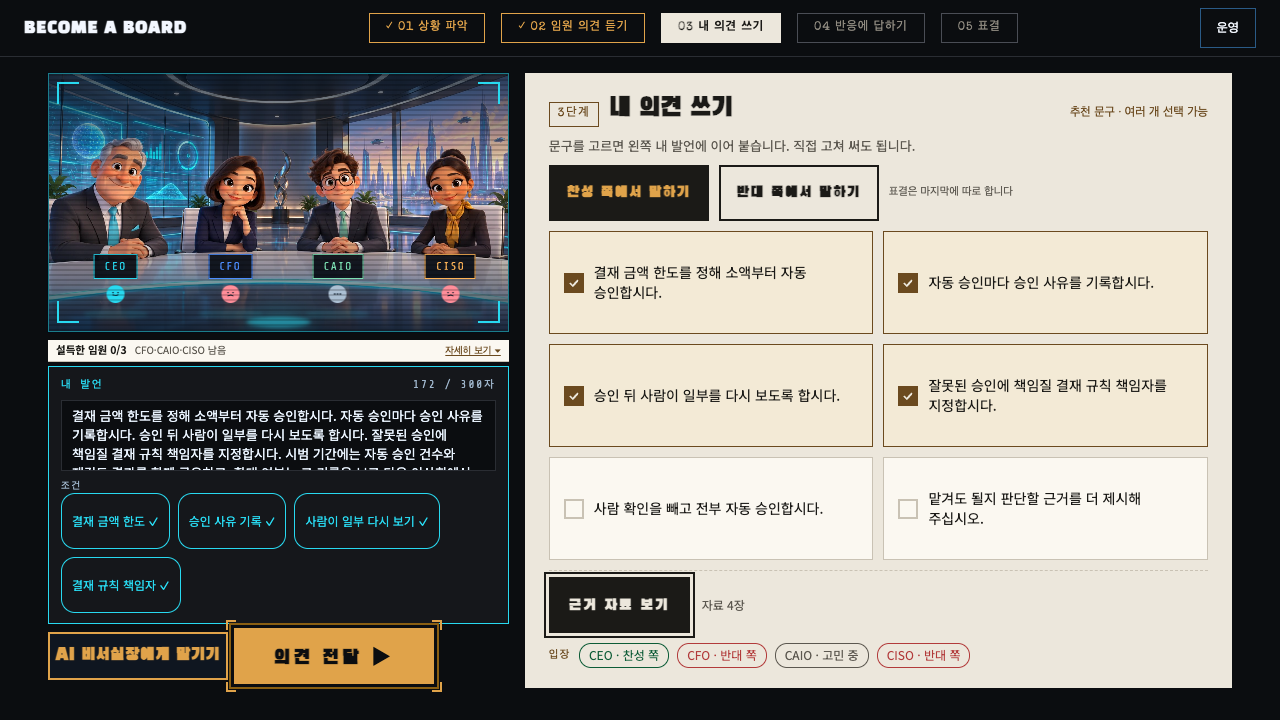
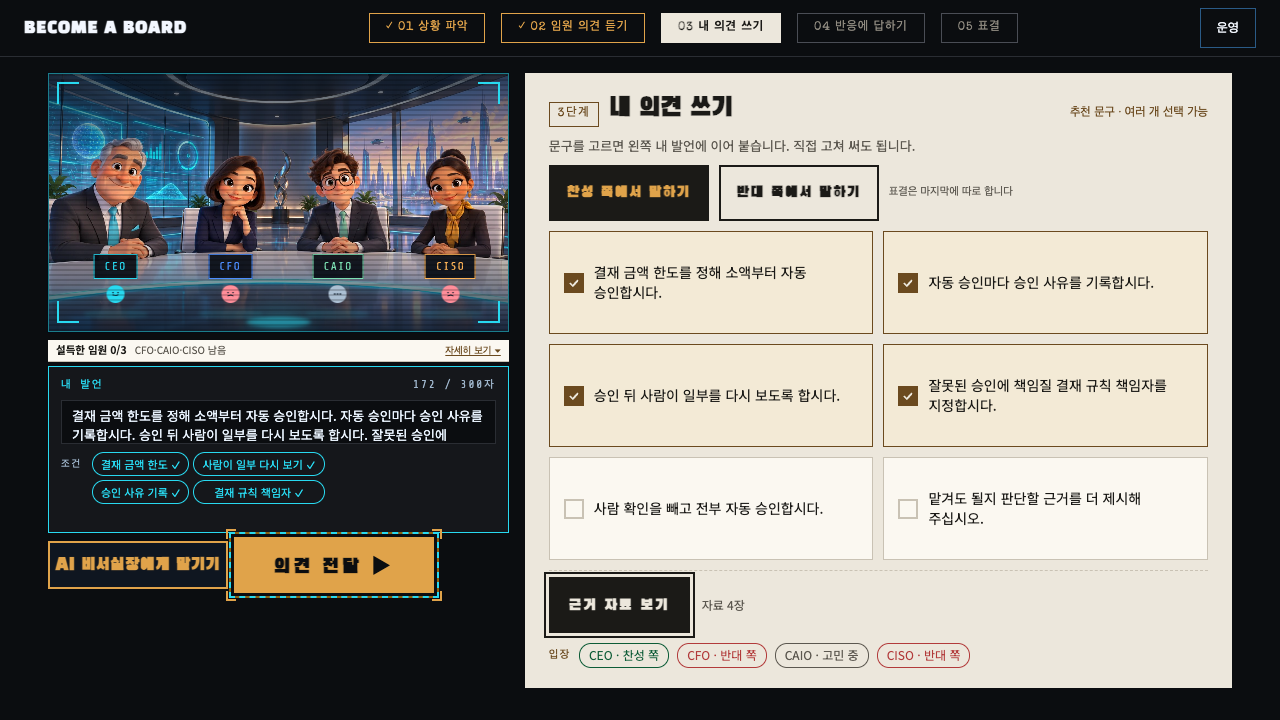
T116: 내 답변·내 의견 HUD 입력 상자 고정 높이와 조건 칩 축소
- 입력 상자를 CSS 변수 고정 높이 + 안쪽 스크롤로, 조건 칸을 고정 높이(칩 최대 2줄, 넘치면 가로 스크롤)로 바꿔 제출 줄이 밀리지 않게 함
- 300자 초과 오류 줄을 머리줄로 옮겨 입력 상자 아래가 늘지 않게 함
- 조건 칩은 1080 28px / 720 24px로 축소
- e2e noscroll에 조건 5개 + 600자 상태 제출 줄 y 불변 단언 추가, DraftEditor 단위 테스트, DESIGN_SPEC T116 단락, 스크린샷 갱신

Changed region(s): [[0.0312, 0.6111, 0.375, 0.9778]]

diff --git a/src/styles/screens/discuss.css b/src/styles/screens/discuss.css
@@ -11,6 +11,26 @@
    줄을 하나의 패널로 묶는다 — transcript-bg·transcript-border는 이미 TRANSCRIPT
    패널(minutes.css)이 쓰는 같은 HUD 어두운 판 톤이지만 테두리는 시안색(hud-line)으로
    강조한다. */
+/* T116: 입력 상자·조건 칩 자리는 고정 높이(내용이 늘어도 아래 버튼 줄이 밀리지 않는다).
+   두 HUD(.discuss-screen__hud·.reactions-screen__hud)가 같은 변수를 쓴다. */
+.discuss-screen__hud,
+.reactions-screen__hud {
+  --hud-textarea-h: 70px;
+  --hud-chip-h: 28px;
+  --hud-chip-gap: 6px;
+  --hud-chips-h: 88px;
+}
+
+@media (max-width: 1280px) {
+  .discuss-screen__hud,
+  .reactions-screen__hud {
+    --hud-textarea-h: 44px;
+    --hud-chip-h: 24px;
+    --hud-chip-gap: 4px;
+    --hud-chips-h: 70px;
+  }
+}
+
 .discuss-screen__hud {
   box-sizing: border-box;
   display: flex;
@@ -74,9 +94,10 @@
 /* 3줄 높이(시안 64px/720) — resize는 시안대로 막는다(HUD 입력 상자가 고정 높이다). */
 .draft-editor__textarea {
   width: 100%;
-  min-height: 80px;
+  height: var(--hud-textarea-h);
   box-sizing: border-box;
   resize: none;
+  overflow-y: auto;
   padding: 10px 12.5px;
   background-color: var(--skin-bg);
   border: 1px solid var(--transcript-border);
@@ -92,7 +113,6 @@
        팀리드 지시 — 3줄 높이를 2.5줄 정도로 살짝 줄여도 textarea는 그대로 늘어난다,
        resize는 여전히 막아 둔다). REACTIONS(다시 답하기)가 DISCUSS보다 조건 칩
        2줄(ConditionChips)까지 더 겹쳐 세로 예산이 더 빠듯해 한 번 더 줄인다. */
-    min-height: 36px;
     padding: 6px 10px;
     font-size: 13px;
   }
@@ -103,10 +123,25 @@
   outline-offset: 2px;
 }
 
+/* T116: 머리줄 가운데(높이 고정). 길면 말줄임. */
 .draft-editor__error {
+  flex: 1;
+  min-width: 0;
   margin: 0;
+  overflow: hidden;
+  text-align: center;
+  text-overflow: ellipsis;
+  white-space: nowrap;
+  letter-spacing: 0;
   color: var(--vote-no);
-  font-size: var(--fs-meta);
+  font-family: inherit;
+  font-size: 13px;
+}
+
+@media (max-width: 1280px) {
+  .draft-editor__error {
+    font-size: 11px;
+  }
 }
 
 .rebuild-confirm {
@@ -149,22 +184,63 @@
   }
 }
 
+/* T116: 칩 줄은 최대 2줄 높이로 고정하고, 6개가 모자라면 가로로 스크롤한다(세로 방향
+   배치 + 줄바꿈이라 넘치는 칩은 오른쪽 열로 이어진다). 칸 높이가 변하지 않아 버튼 줄이
+   움직이지 않는다. */
+.hud-conditions-slot {
+  box-sizing: border-box;
+  height: var(--hud-chips-h);
+  min-height: 0;
+  overflow: hidden;
+}
+
+.condition-chips {
+  display: flex;
+  flex-direction: column;
+  gap: 4px;
+  height: 100%;
+  min-height: 0;
+}
+
+.condition-chips__row {
+  display: flex;
+  flex: 0 0 auto;
+  align-items: flex-start;
+  gap: 10px;
+}
+
+.condition-chips__row .condition-chips__label {
+  flex: 0 0 auto;
+  line-height: var(--hud-chip-h);
+}
+
 .condition-chips__list {
   display: flex;
-  flex-wrap: wrap;
-  gap: var(--space-1);
+  flex: 1;
+  flex-flow: column wrap;
+  align-content: flex-start;
+  gap: var(--hud-chip-gap);
+  min-width: 0;
+  height: calc(var(--hud-chip-h) * 2 + var(--hud-chip-gap) + 8px);
+  overflow-x: auto;
+  overflow-y: hidden;
+  padding-bottom: 8px;
 }
 
 .condition-chip {
-  min-height: var(--touch-min);
-  padding: 5px 12.5px;
-  border-radius: 18px;
+  box-sizing: border-box;
+  height: var(--hud-chip-h);
+  min-height: 0;
+  padding: 0 11px;
+  border-radius: 14px;
   border: 1px solid #4a4d55;
   background: transparent;
   color: #8f8a80;
   cursor: pointer;
   font-family: inherit;
-  font-size: 15px;
+  font-size: 13px;
+  line-height: 1;
+  white-space: nowrap;
   transition:
     border-color var(--transition-fast) ease,
     color var(--transition-fast) ease;
@@ -172,9 +248,9 @@
 
 @media (max-width: 1280px) {
   .condition-chip {
-    padding: 4px 10px;
-    border-radius: 14px;
-    font-size: 12px;
+    padding: 0 8px;
+    border-radius: 12px;
+    font-size: 11px;
   }
 }
 
@@ -192,13 +268,32 @@
 }
 
 .condition-chips__conflicts {
-  margin: var(--space-1) 0 0;
+  flex: 1;
+  min-height: 0;
+  margin: 0;
   padding-left: var(--space-2);
+  overflow-y: auto;
   color: var(--vote-no);
+  font-size: 13px;
+  line-height: 1.3;
+}
+
+@media (max-width: 1280px) {
+  .condition-chips__conflicts {
+    font-size: 11px;
+  }
 }
 
 .condition-chips__hint {
+  margin: 0;
   color: #9fb6cc;
+  font-size: 13px;
+}
+
+@media (max-width: 1280px) {
+  .condition-chips__hint {
+    font-size: 11px;
+  }
 }
 
 /* [AI 비서실장 열기][의견 전달 ▶](시안 — amber 보조 버튼 + amber 채움 주 CTA).

diff --git a/tests/components/DraftEditor.test.tsx b/tests/components/DraftEditor.test.tsx
@@ -1,4 +1,5 @@
 import '@testing-library/jest-dom/vitest';
+import { readFileSync } from 'node:fs';
 import { afterEach, describe, expect, it, vi } from 'vitest';
 import { cleanup, fireEvent, render, screen } from '@testing-library/react';
 import { DraftEditor } from '../../src/components/parts/DraftEditor';
@@ -31,12 +32,27 @@ describe('DraftEditor', () => {
     expect(screen.queryByTestId('draft-editor-error')).not.toBeInTheDocument();
   });
 
-  it('300자를 넘으면 글자 수 표시와 함께 하단 오류를 보여준다', () => {
+  it('300자를 넘으면 글자 수 표시와 함께 오류를 보여준다', () => {
     const longText = 'a'.repeat(DRAFT_MAX_LENGTH + 1);
     render(<DraftEditor value={longText} onChange={vi.fn()} />);
     expect(screen.getByTestId('draft-editor-count')).toHaveTextContent(
       `${longText.length} / ${DRAFT_MAX_LENGTH}자`,
     );
     expect(screen.getByTestId('draft-editor-error')).toBeInTheDocument();
+  });
+
+  // T116: 입력 상자는 고정 높이 + 안쪽 스크롤이다. jsdom은 레이아웃을 계산하지 않으므로
+  // 스타일시트 규칙과 컴포넌트가 높이를 직접 건드리지 않는 것을 확인한다(실제 위치는 e2e noscroll).
+  it('입력 상자는 CSS 고정 높이·안쪽 스크롤이고 자동 늘어나기가 없다', () => {
+    const css = readFileSync('src/styles/screens/discuss.css', 'utf8');
+    const rule = /\.draft-editor__textarea \{([^}]*)\}/.exec(css)?.[1] ?? '';
+    expect(rule).toContain('height: var(--hud-textarea-h)');
+    expect(rule).toContain('overflow-y: auto');
+    expect(rule).toContain('resize: none');
+    expect(rule).not.toMatch(/min-height|field-sizing/);
+
+    render(<DraftEditor value={'가'.repeat(600)} onChange={vi.fn()} />);
+    const textarea = screen.getByTestId('draft-editor-textarea');
+    expect(textarea.getAttribute('style')).toBeNull();
   });
 });

diff --git a/src/components/parts/DraftEditor.tsx b/src/components/parts/DraftEditor.tsx
@@ -54,6 +54,13 @@ export function DraftEditor({
     <div className="draft-editor">
       <div className="draft-editor__head">
         <span className="draft-editor__label">{label}</span>
+        {/* T116: 오류 줄이 입력 상자 아래에 끼어들면 아래 버튼 줄이 밀린다 — 높이가 고정인
+            머리줄 가운데에 둔다(role=alert·testid 그대로). */}
+        {overLimit && (
+          <p className="draft-editor__error" role="alert" data-testid={errorTestId}>
+            300자를 넘었습니다. 표현을 줄여 주세요.
+          </p>
+        )}
         <span
           className={`draft-editor__count${overLimit ? ' draft-editor__count--over' : ''}`}
           data-testid={countTestId}
@@ -83,11 +90,6 @@ export function DraftEditor({
           }
         }}
       />
-      {overLimit && (
-        <p className="draft-editor__error" role="alert" data-testid={errorTestId}>
-          300자를 넘었습니다. 표현을 줄여 주세요.
-        </p>
-      )}
     </div>
   );
 }

diff --git a/src/components/screens/DiscussScreen.tsx b/src/components/screens/DiscussScreen.tsx
@@ -378,14 +378,16 @@ export function DiscussScreen({
         )}
         <div className="discuss-screen__hud" data-testid="discuss-hud">
           <DraftEditor value={draft.draftText} onChange={handleDraftTextChange} />
-          <ConditionChips
-            scenario={scenario}
-            proposedIds={proposedConditionIds}
-            acceptedIds={acceptedConditionIds}
-            conflictPairs={conflictPairs}
-            showNoMatchHint={showNoMatchHint}
-            onToggle={handleToggleCondition}
-          />
+          <div className="hud-conditions-slot">
+            <ConditionChips
+              scenario={scenario}
+              proposedIds={proposedConditionIds}
+              acceptedIds={acceptedConditionIds}
+              conflictPairs={conflictPairs}
+              showNoMatchHint={showNoMatchHint}
+              onToggle={handleToggleCondition}
+            />
+          </div>
         </div>
         <div className="discuss-screen__submit-row screen__submit-row">
           <AssistantPanel

diff --git a/src/components/parts/ConditionChips.tsx b/src/components/parts/ConditionChips.tsx
@@ -66,6 +66,7 @@ export function ConditionChips({
       {/* T73(S3_Discuss·S4_Reactions 시안 공용 HUD 라벨): "CONDITIONS"는 시안의 장식
           라벨이었으나(STEP·EXHIBIT 등과 같은 규칙) T83에서 한국어로 바꿨다. 확정 칩의
           체크는 배지가 아니라 시안처럼 라벨 문구 끝에 그대로 붙는 글자다. */}
+      <div className="condition-chips__row">
       <p className="condition-chips__label">조건</p>
       <div className="condition-chips__list">
         {proposedIds.map((id) => {
@@ -86,6 +87,7 @@ export function ConditionChips({
             </button>
           );
         })}
+      </div>
       </div>
       {conflictPairs.length > 0 && (
         <ul className="condition-chips__conflicts" role="alert" data-testid="condition-chips-conflicts">

diff --git a/src/styles/screens/reactions.css b/src/styles/screens/reactions.css
@@ -59,18 +59,7 @@
   }
 }
 
-/* CONDITIONS 칩 자리 예약(T85 my#10): 답을 시작하기 전에도 이 높이를 미리
-   비워 둬, 칩이 생기는 순간 바로 아래 "답변 전달" 버튼이 밀려 내려가지 않게
-   한다 — condition-chip의 최소 터치 높이(--touch-min, 56px) + 라벨 한 줄 기준. */
-.reactions-screen__conditions-slot {
-  min-height: 76px;
-}
-
-@media (max-width: 1280px) {
-  .reactions-screen__conditions-slot {
-    min-height: 68px;
-  }
-}
+/* 조건 칩 자리는 공용 .hud-conditions-slot(discuss.css, T116 고정 높이)이 예약한다. */
 
 /* [AI 비서실장 열기][답변 전달 ▶](시안 — discuss-screen__submit-row과 같은 크기). */
 .reactions-screen__submit-row {

diff --git a/src/components/screens/ReactionsScreen.tsx b/src/components/screens/ReactionsScreen.tsx
@@ -792,7 +792,7 @@ export function ReactionsScreen({
           {/* T85 my#10: 답을 시작하는 순간 CONDITIONS 칩이 생기며 바로 아래
               "답변 전달" 버튼이 밀려 내려가 클릭 직전 버튼이 움직였다 — 칩이 없을
               때도 이 슬롯이 자리를 미리 비워 둔다(reactions.css min-height). */}
-          <div className="reactions-screen__conditions-slot">
+          <div className="hud-conditions-slot">
             {hasStartedAnswer && (
               <ConditionChips
                 scenario={scenario}

diff --git a/docs/design/DESIGN_SPEC.md b/docs/design/DESIGN_SPEC.md
@@ -996,3 +996,21 @@ MOTION·다시 답하기(REACTIONS 2/2)·ATTRACT·INTRO·SELECT에는 안내가 
 
 - **서버**(`server/handlers/round.ts`, FOLLOWUP 단계만): 응답 문장에 방향 단어가 있으면 `invalid_response`로 보고 기존 재시도 경로를 한 번 탄다. 재시도에서도 남거나 재시도 예산이 없으면 그 임원 발언만 역할별 중립 문장("이사님 답변은 들었습니다. … 제 판단은 표결에서 밝히겠습니다.")으로 바꿔 내려보내고(`stance`·근거는 유지, 캐시 토큰은 두 시도 합산) 로그 `note`에 `followup_verdict_masked`를 남긴다.
 - **화면**(`buildMinutes`): MOTION·VOTE 회의록은 방향 단어가 든 FOLLOWUP 행을 "(답변을 들었습니다 · 결과에서 공개)"로 바꾼다. RESULT 이후는 원문이고, 결과 화면의 회의 기록 전문도 순차 공개가 끝나기 전에는 같은 방식으로 가린다.
+
+## T116 — HUD 고정 높이 (2026-10-09)
+
+사용자 지적: 내 답변에 조건 칩이 붙으면 아래 버튼 줄이 밀린다. 내 답변(REACTIONS 2/2)과 같은 HUD를 쓰는 내 의견(DISCUSS)에 같은 규칙을 적용한다. 규칙은 `discuss.css` 맨 위 변수 한 곳이다.
+
+| 항목 | 1080 | 720 |
+| --- | --- | --- |
+| 입력 상자 높이 (`--hud-textarea-h`) | 70px | 44px |
+| 조건 칩 높이 (`--hud-chip-h`) | 28px (글자 13px) | 24px (글자 11px) |
+| 조건 칩 줄 사이 (`--hud-chip-gap`) | 6px | 4px |
+| 조건 칸 높이 (`--hud-chips-h`) | 88px | 70px |
+
+- **입력 상자**: 높이 고정, `overflow-y: auto`, `resize: none`, 자동 늘어나기 없음. 600자도 상자 안에서 스크롤된다.
+- **조건 칸**(`.hud-conditions-slot`): 칩이 없어도, 있어도, 충돌 안내가 떠도 높이가 같다. 안은 위에서 아래로 "라벨 + 칩 줄(최대 2줄)", 그 아래 충돌 안내 한 줄(넘치면 안쪽 스크롤).
+- **칩이 2줄을 넘으면 가로 스크롤**을 택했다. 칩 줄을 세로 방향 줄바꿈(`flex-flow: column wrap`)으로 두면 2줄 높이에서 넘친 칩이 오른쪽 열로 이어진다. "+N 접기"는 접힌 칩을 열 방법이 하나 더 필요하고 키보드 순서가 꼬이지만, 가로 스크롤은 칩이 모두 DOM 순서대로 남고 포커스가 가면 저절로 보인다. 시나리오 조건은 최대 5개라 실제로는 대부분 2줄에 다 들어간다.
+- **오류 줄**("300자를 넘었습니다")은 입력 상자 아래가 아니라 머리줄 가운데로 옮겼다. 아래에 끼면 버튼 줄이 밀린다.
+- 칩 선택/해제·제안 표시·키보드 접근성·조건 규칙(`domain/conditions`)과 버튼 모양(T111)은 그대로다.
+- 검증: `e2e/noscroll.spec.ts`의 HUD 단언(조건 5개 + 600자 입력에서 제출 줄 y·입력 상자 높이가 빈 상태와 같고 페이지 스크롤 없음, 1080·720). 스크린샷은 `discuss.png`·`reactions.png` 두 해상도.

diff --git a/docs/TASKS.md b/docs/TASKS.md
@@ -11,7 +11,7 @@
 | 작업 | 상태 | 비고 |
 | --- | --- | --- |
 | T110 | 완료 | 난이도 조절 — 첫 의견(추천 문구)만으로 전원 설득되지 않게(2026-10-09 사용자 지시): 1차 반응은 조건이 맞아도 '고민 중'까지만, 추가 질문에 답(`session.followUpAnswered`)해야 찬성, 답하지 않고 넘어가면 표결에서 반대(반대 참가자는 대칭). scripted(`VoteContext.followUpAnswered`·`reactions[].pendingText`)와 live(프롬프트 v12) 모두. 상세는 아래 T110 카드와 DESIGN_SPEC T110 |
-| T116 | 진행 중 | 내 답변·내 의견 HUD: 조건 칩을 작게, 입력 상자 높이 고정 + 넘치면 안쪽 스크롤 → 아래 버튼 줄이 밀리지 않게(2026-10-09 사용자 지시). 상세는 아래 T116 카드 |
+| T116 | 완료 | 내 답변·내 의견 HUD: 조건 칩을 작게, 입력 상자 높이 고정 + 넘치면 안쪽 스크롤 → 아래 버튼 줄이 밀리지 않게(2026-10-09 사용자 지시). 상세는 아래 T116 카드 |
 | T115 | 진행 중 | AI 비서실장 조건 추천이 임원 찬성/반대와 **정반대 방향**으로 안내되는 경우 수정(2026-10-09 사용자 지시, 원인 조사 선행). 상세는 아래 T115 카드 |
 | T114 | 완료 | 답변 뒤에는 임원 찬반 방향을 **봉인**(현황판 입장 열·설득 문구·무대 표정·2차 발언 입장) → 결과 화면에서 임원 표를 **한 장씩 순차 공개**(2026-10-09 사용자 지시: "답하기 후 AI 임원들의 찬반 방향을 몰라야 결과가 더 극적"). 상세는 아래 T114 카드 **구현 결과(2026-10-09)**: `PersuasionBoard`·`ExecStanceList`에 `sealed`(입장 열 `?` 가림 배지·비고 "답변을 들었습니다 · 결과에서 공개"·집계 가림, 처음부터 같은 편은 유지), `App`이 MOTION·VOTE 무대에 중립 표정, 프롬프트 v13(`FOLLOWUP_NO_VERDICT_RULE`)·mock FOLLOWUP 문장 방향 없음, 결과 임원 표 4장을 0.9초 간격 CSS 지연으로 순차 공개(무대 배지·좌측 막대·우측 행 동기, 집계·결론은 4.1초, 도장 4.2초·성공/실패 4.6초, reduced-motion·skip 즉시). 부수 수정: 표결 확정 클릭이 결과 화면의 skip 리스너에 같은 이벤트로 잡혀 연출이 항상 즉시 건너뛰어지던 문제를 `event.timeStamp` 가드로 해결. 비고 문구는 표가 결과에서 공개되므로 카드의 "표결에서 공개" 대신 "결과에서 공개". 문서 `DESIGN_SPEC` T114·`tuning-v13.md`(live 실측은 승인 뒤) |
 | T113 | 완료 | 화면마다 "다음 할 일" 하나에 **숨쉬는 점선 테두리**(A안)로 시선 유도(2026-10-09 사용자 지시, 시안 https://claude.ai/artifact/6vsQwSsu43MobLEUgvd98i). 상세는 아래 T113 카드 |
